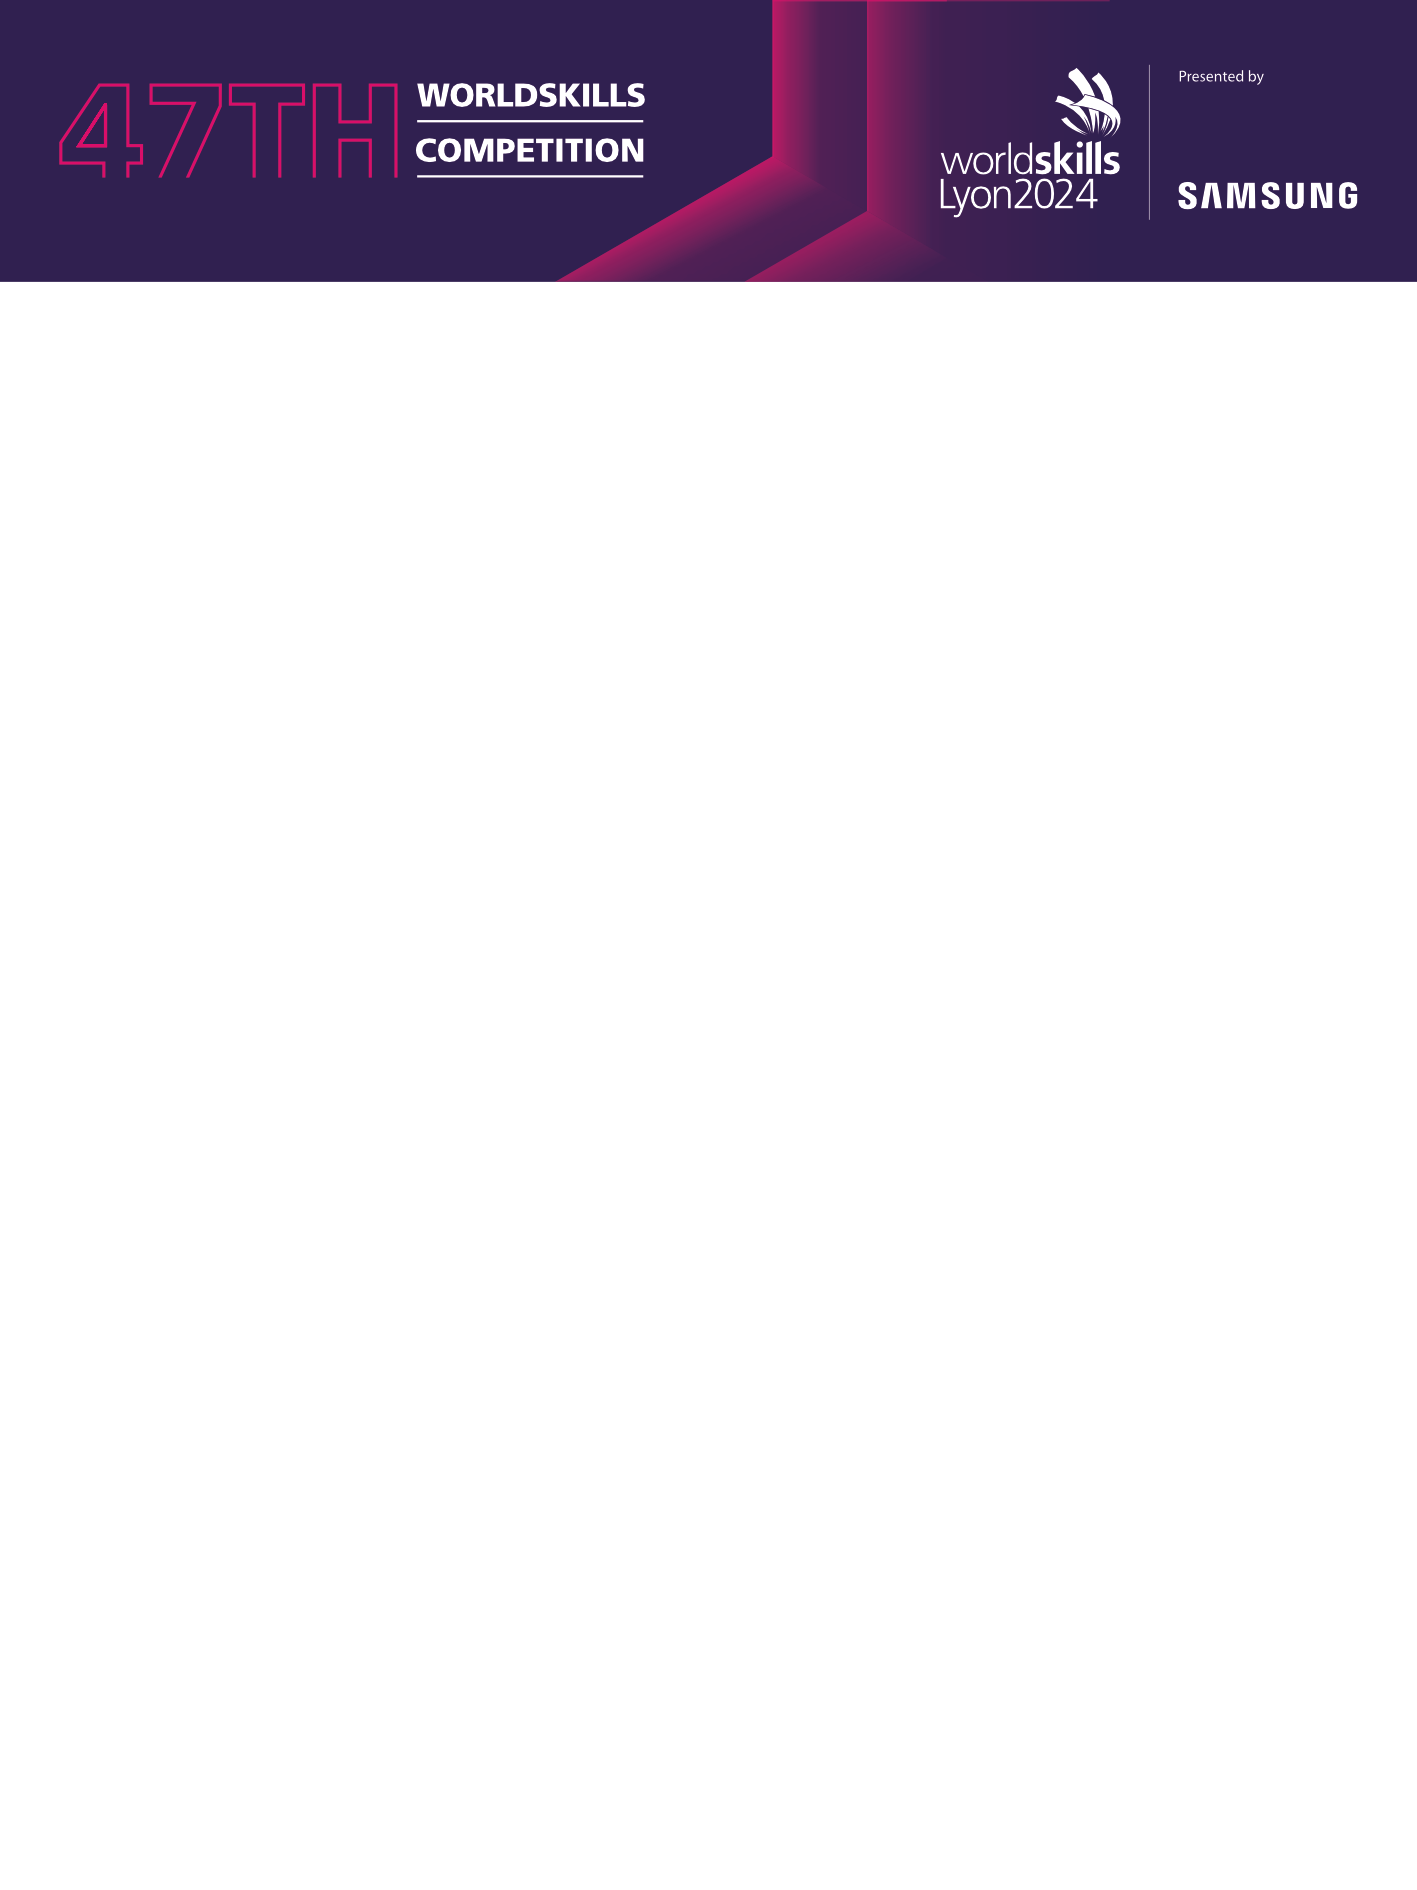
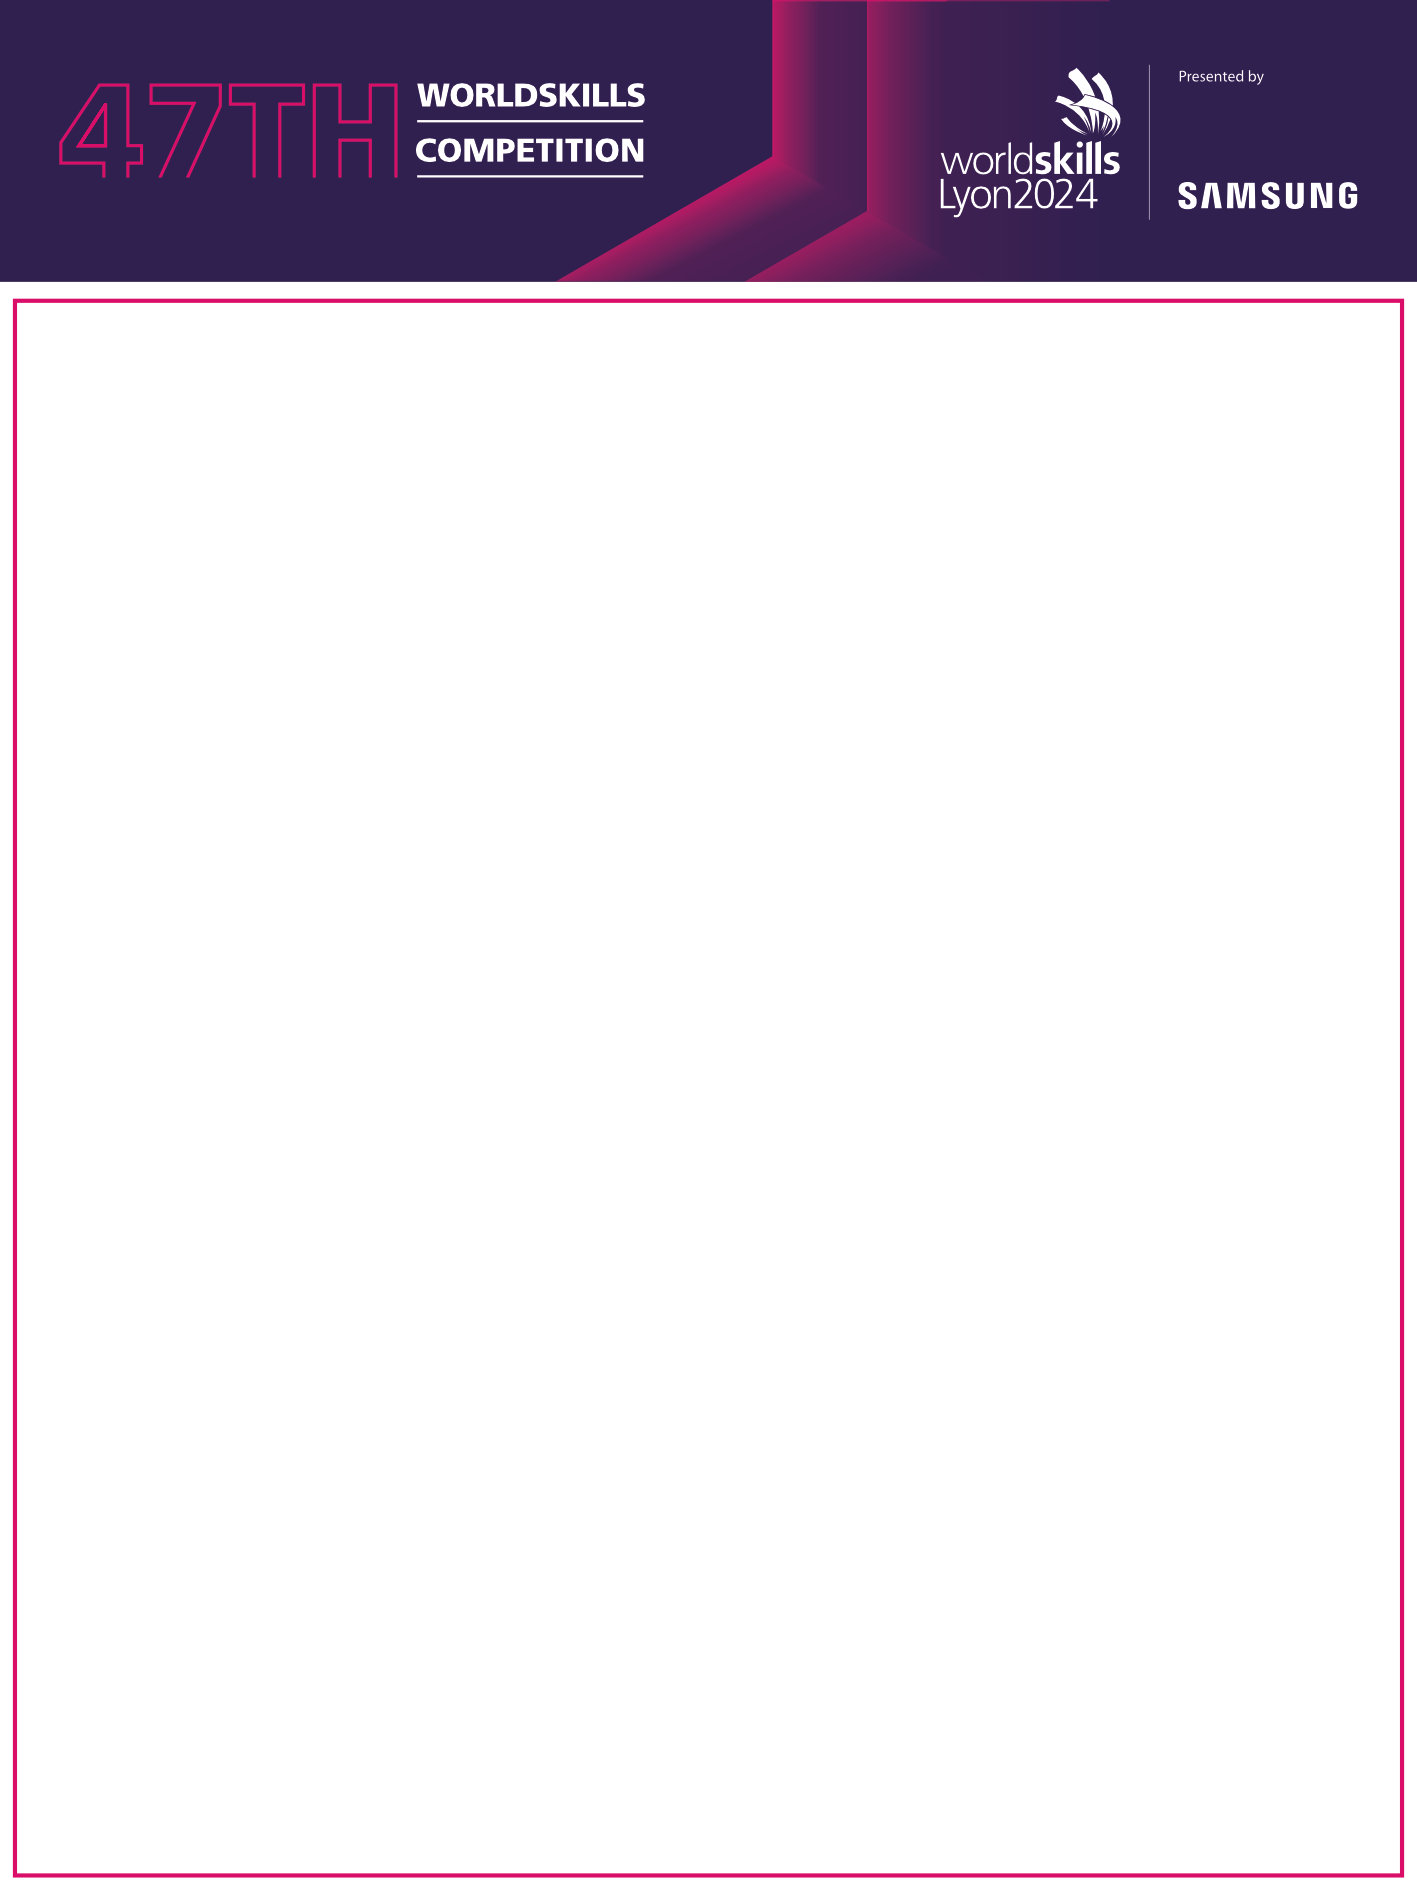
Include line in WSC2024 background

Changed region(s): [[0.9626, 0.1561, 0.9936, 0.9989], [0.0, 0.1561, 0.0311, 0.9989]]

diff --git a/src/app/badges/wsi2024-wsc/wsi2024-wsc.component.html b/src/app/badges/wsi2024-wsc/wsi2024-wsc.component.html
@@ -1,6 +1,6 @@
 <div class="ws-badge" *ngIf="showComponent">
 
-    <div style="position: relative; width: 118mm; height: 134mm; margin: 1mm; margin-top: 25mm; border: 0.3mm solid #D51067;">
+    <div style="position: relative; width: 116mm; height: 133mm; margin: 2mm; margin-top: 25mm;">
 
     <div style="position: absolute; top: 4mm; left: 4mm;">
       <img *ngIf="pa.image" src="{{pa.image.thumbnail}}_accreditation" style="width: 30mm; height: 40mm;"/>
@@ -36,7 +36,7 @@
         <div style="width: 20mm;"><div *ngIf="hasZone('FPT')" class="icon icon-pink">FPT</div></div>
       </div>
 
-      <div style="position: absolute; display: flex; border: 0.3mm solid #2E1651; left: 1mm; padding: 1mm 2mm; width: 57mm; bottom: 16mm; height: 48mm;">
+      <div style="position: absolute; display: flex; border: 0.3mm solid #2E1651; left: 1mm; padding: 1mm 2mm; width: 56mm; bottom: 16mm; height: 48mm;">
 
         <div style="flex: 1; display: grid; grid-template-columns: repeat(3, 1fr); grid-template-rows: repeat(3, 1fr); text-align: center; font-size: 10mm; font-weight: 600; -webkit-print-color-adjust: exact;">
           <div style="align-self: center; justify-self: center;">
